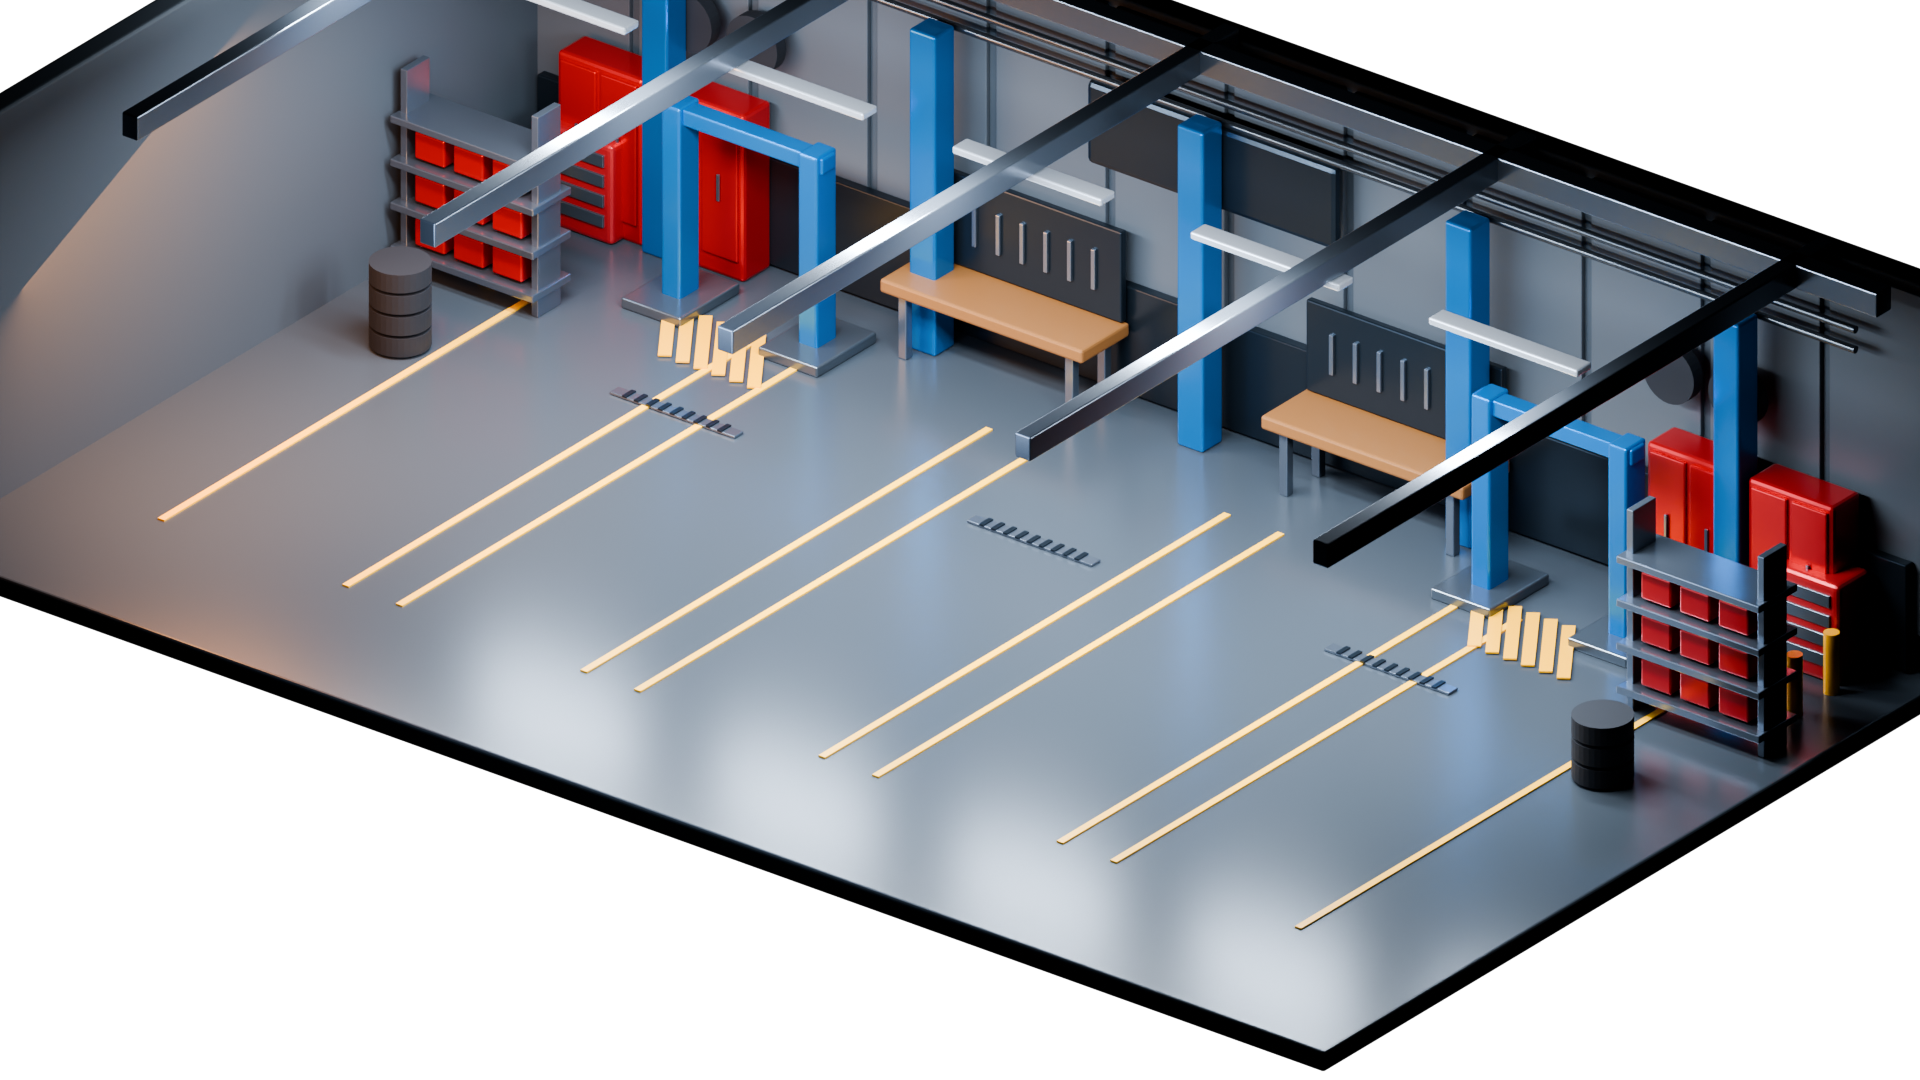
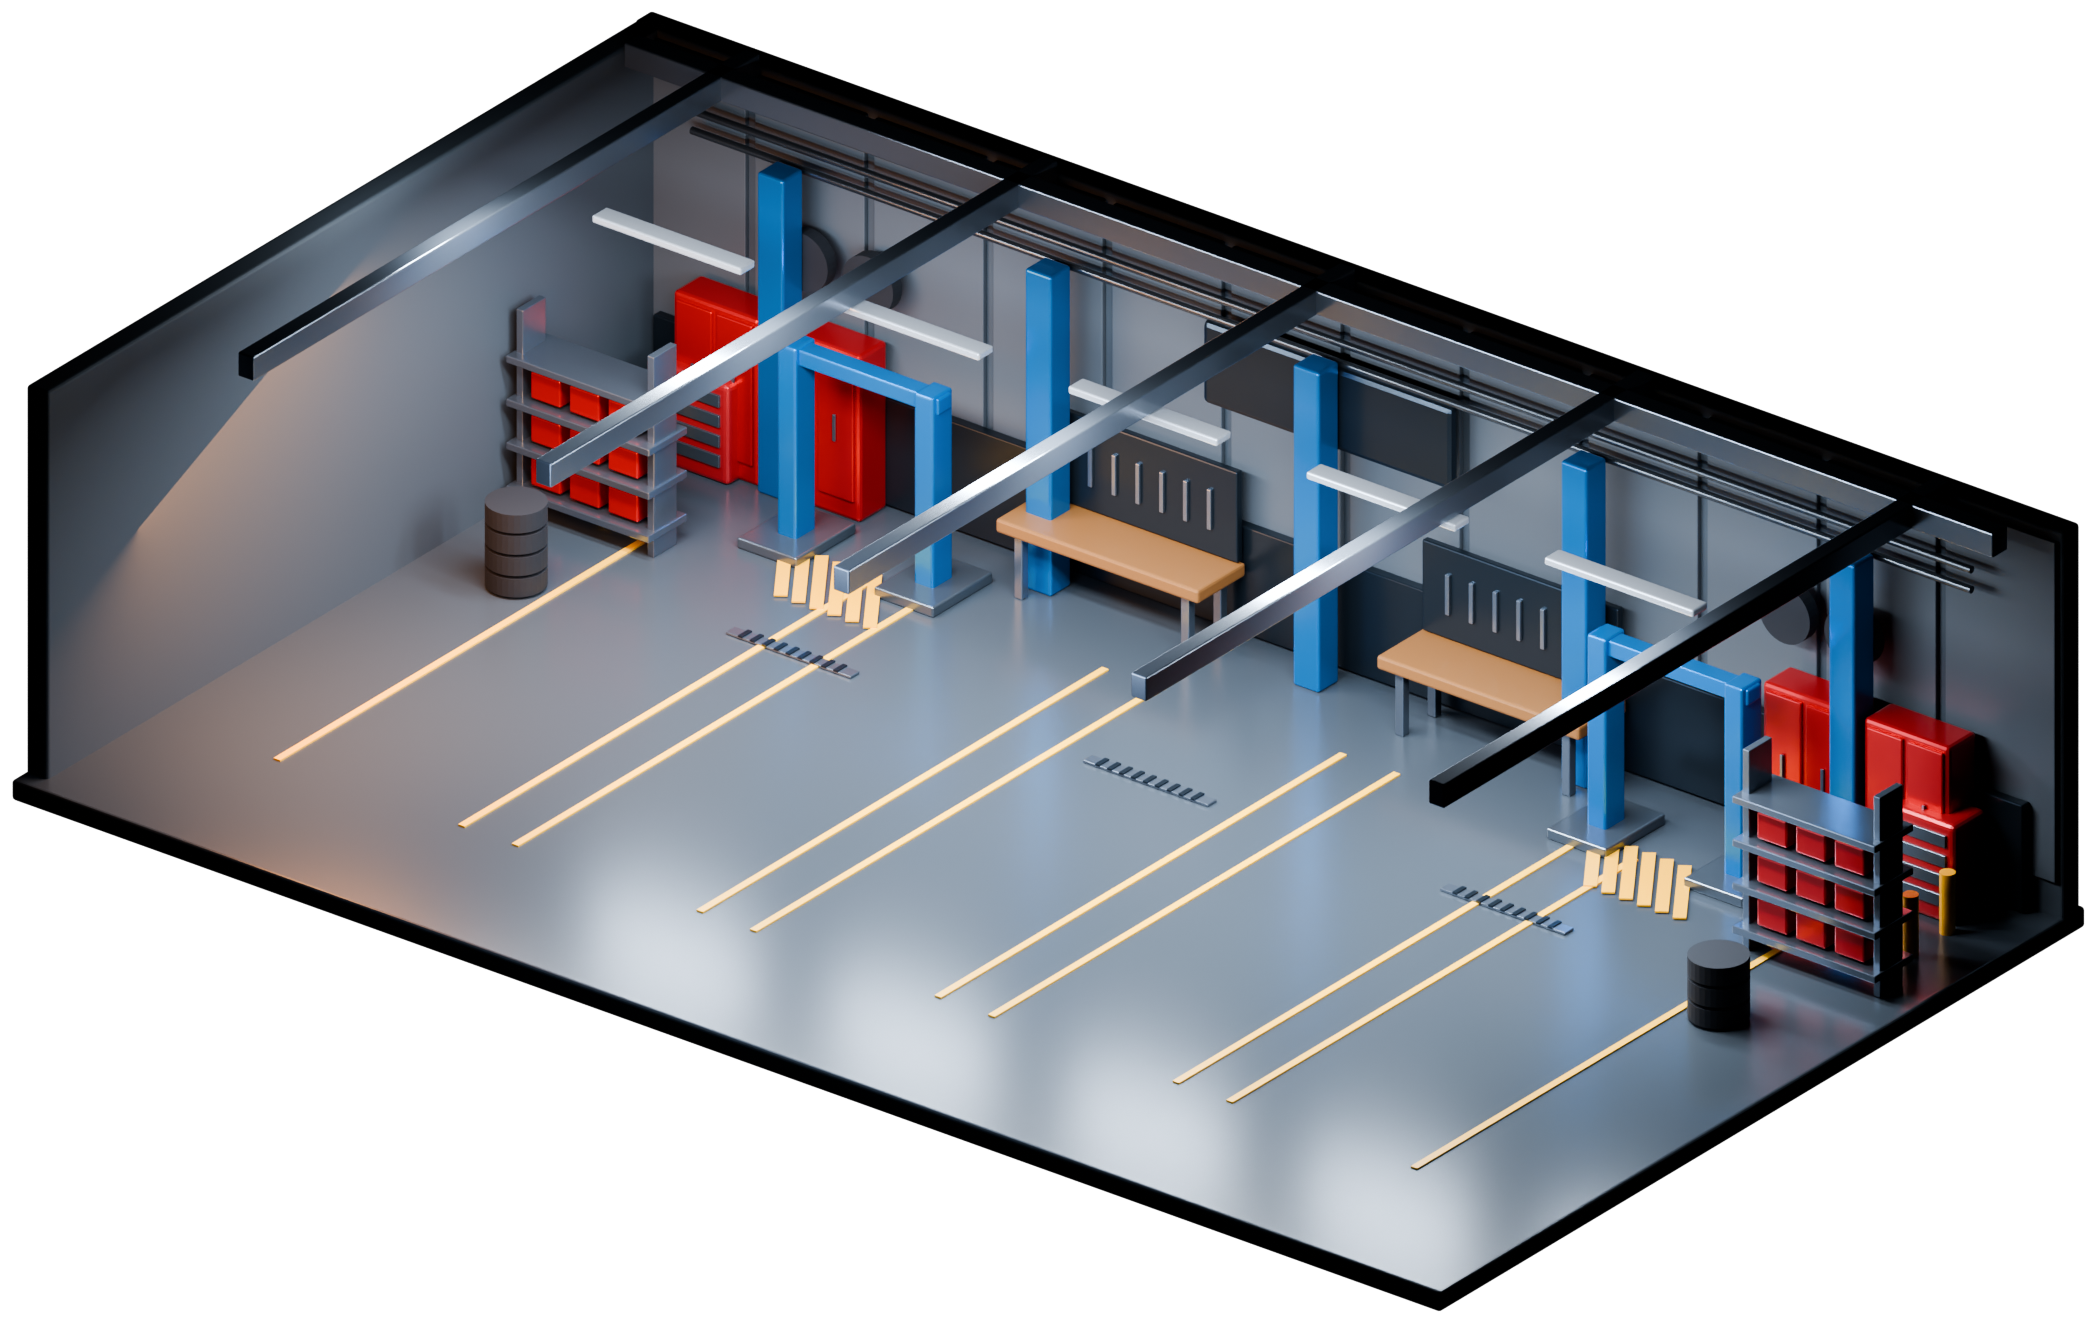
Fondo del garaje sin recortes: render extendido (2094x1320) con margenes arriba y a la derecha
Claude-Session: https://claude.ai/code/session_01H1beWi4zmVGMP2Tdas5FN6

diff --git a/src/engine/GarageScene.ts b/src/engine/GarageScene.ts
@@ -5,9 +5,10 @@ import { getModel } from '../data/vehicles';
 import { findPaint, findRim } from '../data/parts';
 import { getJob } from '../data/jobs';
 import { CarPainter, type PainterMap } from './recolor';
-import { ASSETS, PROJ, SPRITE_INFO, SPRITE_KEYS, SPRITE_SCALE } from './assets';
+import { ASSETS, BG, PROJ, SPRITE_INFO, SPRITE_KEYS, SPRITE_SCALE } from './assets';
 
-const W = 1920, H = 1080;
+// Mundo = imagen de fondo (con margen extra). Centro y tamaño salen de BG.
+const WW = BG.w, HH = BG.h, CX = BG.x + BG.w / 2, CY = BG.y + BG.h / 2;
 type Pt = { x: number; y: number };
 /** Proyección ortográfica de la cámara de Blender: mundo (x,y,z) -> píxel del render. */
 const project = (x: number, y: number, z = 0): Pt => ({
@@ -49,13 +50,13 @@ export class GarageScene extends Phaser.Scene {
         this.textures.get(`${k}-mask`).getSourceImage() as HTMLImageElement,
       );
     });
-    this.add.image(0, 0, 'bg').setOrigin(0).setDepth(0);
+    this.add.image(BG.x, BG.y, 'bg').setOrigin(0).setDepth(0);
     this.slotGfx = this.add.graphics().setDepth(1);
     this.ring = this.add.graphics().setDepth(2);
     this.buildSlotLabels();
 
     const cam = this.cameras.main;
-    cam.setBounds(-300, -300, W + 600, H + 600);
+    cam.setBounds(BG.x - 300, BG.y - 300, WW + 600, HH + 600);
     this.refit();
     this.scale.on('resize', () => this.refit(true));
     this.setupInput();
@@ -70,17 +71,17 @@ export class GarageScene extends Phaser.Scene {
   // ---------- cámara
   private refit(onlyIfFitted = false) {
     const cam = this.cameras.main;
-    const z = Math.min(this.scale.width / W, this.scale.height / H) * 1.02;
+    const z = Math.min(this.scale.width / WW, this.scale.height / HH) * 1.02;
     const wasFitted = Math.abs(cam.zoom - this.fitZoom) < 0.001;
     this.fitZoom = z;
-    if (!onlyIfFitted || wasFitted) { cam.setZoom(z); cam.centerOn(W / 2, H / 2); }
+    if (!onlyIfFitted || wasFitted) { cam.setZoom(z); cam.centerOn(CX, CY); }
   }
   focusOn(x: number, y: number, zoom = Math.max(this.fitZoom * 1.7, 1)) {
     const cam = this.cameras.main;
     cam.pan(x, y, 450, 'Sine.easeInOut'); cam.zoomTo(zoom, 450, 'Sine.easeInOut');
   }
   resetView() {
-    const cam = this.cameras.main; cam.pan(W / 2, H / 2, 400, 'Sine.easeInOut'); cam.zoomTo(this.fitZoom, 400, 'Sine.easeInOut');
+    const cam = this.cameras.main; cam.pan(CX, CY, 400, 'Sine.easeInOut'); cam.zoomTo(this.fitZoom, 400, 'Sine.easeInOut');
   }
   zoomBy(f: number) {
     const cam = this.cameras.main;

diff --git a/src/engine/assets.ts b/src/engine/assets.ts
@@ -33,3 +33,10 @@ export const SPRITE_INFO = Object.fromEntries(
  * el Kobalt (Subaru) salió 6% más grande y se reduce aquí desde el piso.
  */
 export const SPRITE_SCALE: Record<SpriteKey, number> = { ecl: 1, sub: 0.939, sup: 1, r34: 1, evo: 1 };
+
+/**
+ * El fondo (garage_bg.png) se renderiza con margen extra alrededor del encuadre original 1920x1080
+ * (tools/render_bg.py) para que no se recorten vigas y paredes. Se dibuja en (x, y) negativos, así las
+ * coordenadas de proyección y de los sprites de los autos no cambian.
+ */
+export const BG = { x: -116, y: -240, w: 2094, h: 1320 };

diff --git a/tools/render_bg.py b/tools/render_bg.py
@@ -1,0 +1,38 @@
+# Renderiza el fondo del garaje (sin autos) con margenes extra alrededor del encuadre original,
+# sin cambiar la proyeccion de la camara: los pixeles originales (0..1920 x 0..1080) quedan en el mismo sitio
+# y los sprites de los autos siguen encajando. El juego coloca la imagen en (-left, -top).
+#
+#   BLEND=cartown.blend1 MARGINS=top,left,right,bottom OUT=out [PCT=50 SAMPLES=24] \
+#   python3 -c "exec(open('tools/render_bg.py').read())"
+import os
+RL = os.environ.get('RL_PATH', os.path.join(os.getcwd(), 'tools', 'rl.py'))
+exec(open(RL).read())
+import numpy as np
+from PIL import Image
+
+OUT = os.environ.get('OUT', 'out'); os.makedirs(OUT, exist_ok=True)
+top, left, right, bottom = [int(v) for v in os.environ.get('MARGINS', '0,0,0,0').split(',')]
+pct = int(os.environ.get('PCT', '100'))
+name = os.environ.get('NAME', 'garage_bg_ext')
+
+sc = setup(int(os.environ.get('SAMPLES', '96')))
+ecl, sub = car_objects()
+for o in ecl | sub:
+    o.hide_render = True
+bpy.data.objects['Circle.001'].hide_render = True
+
+NW, NH = W + left + right, H + top + bottom
+cam = sc.camera
+orig_scale = cam.data.ortho_scale
+# la escala ortografica se aplica a la dimension mayor (ancho): mantenerla proporcional conserva px/unidad
+cam.data.sensor_fit = 'HORIZONTAL'
+cam.data.ortho_scale = orig_scale * NW / W
+cam.data.shift_x = ((right - left) / 2) / NW
+cam.data.shift_y = ((top - bottom) / 2) / NW
+sc.render.resolution_x = NW; sc.render.resolution_y = NH; sc.render.resolution_percentage = pct
+sc.render.filepath = f'{OUT}/{name}.png'
+bpy.ops.render.render(write_still=True)
+a = np.array(Image.open(f'{OUT}/{name}.png').convert('RGBA'))[..., 3] > 8
+ys, xs = np.where(a); k = 100 / pct
+print('SIZE', NW, NH, 'ALPHA_BBOX(full-res px, extended frame)', int(xs.min() * k), int(ys.min() * k), int(xs.max() * k), int(ys.max() * k), flush=True)
+print('MARGINS', top, left, right, bottom, flush=True)
